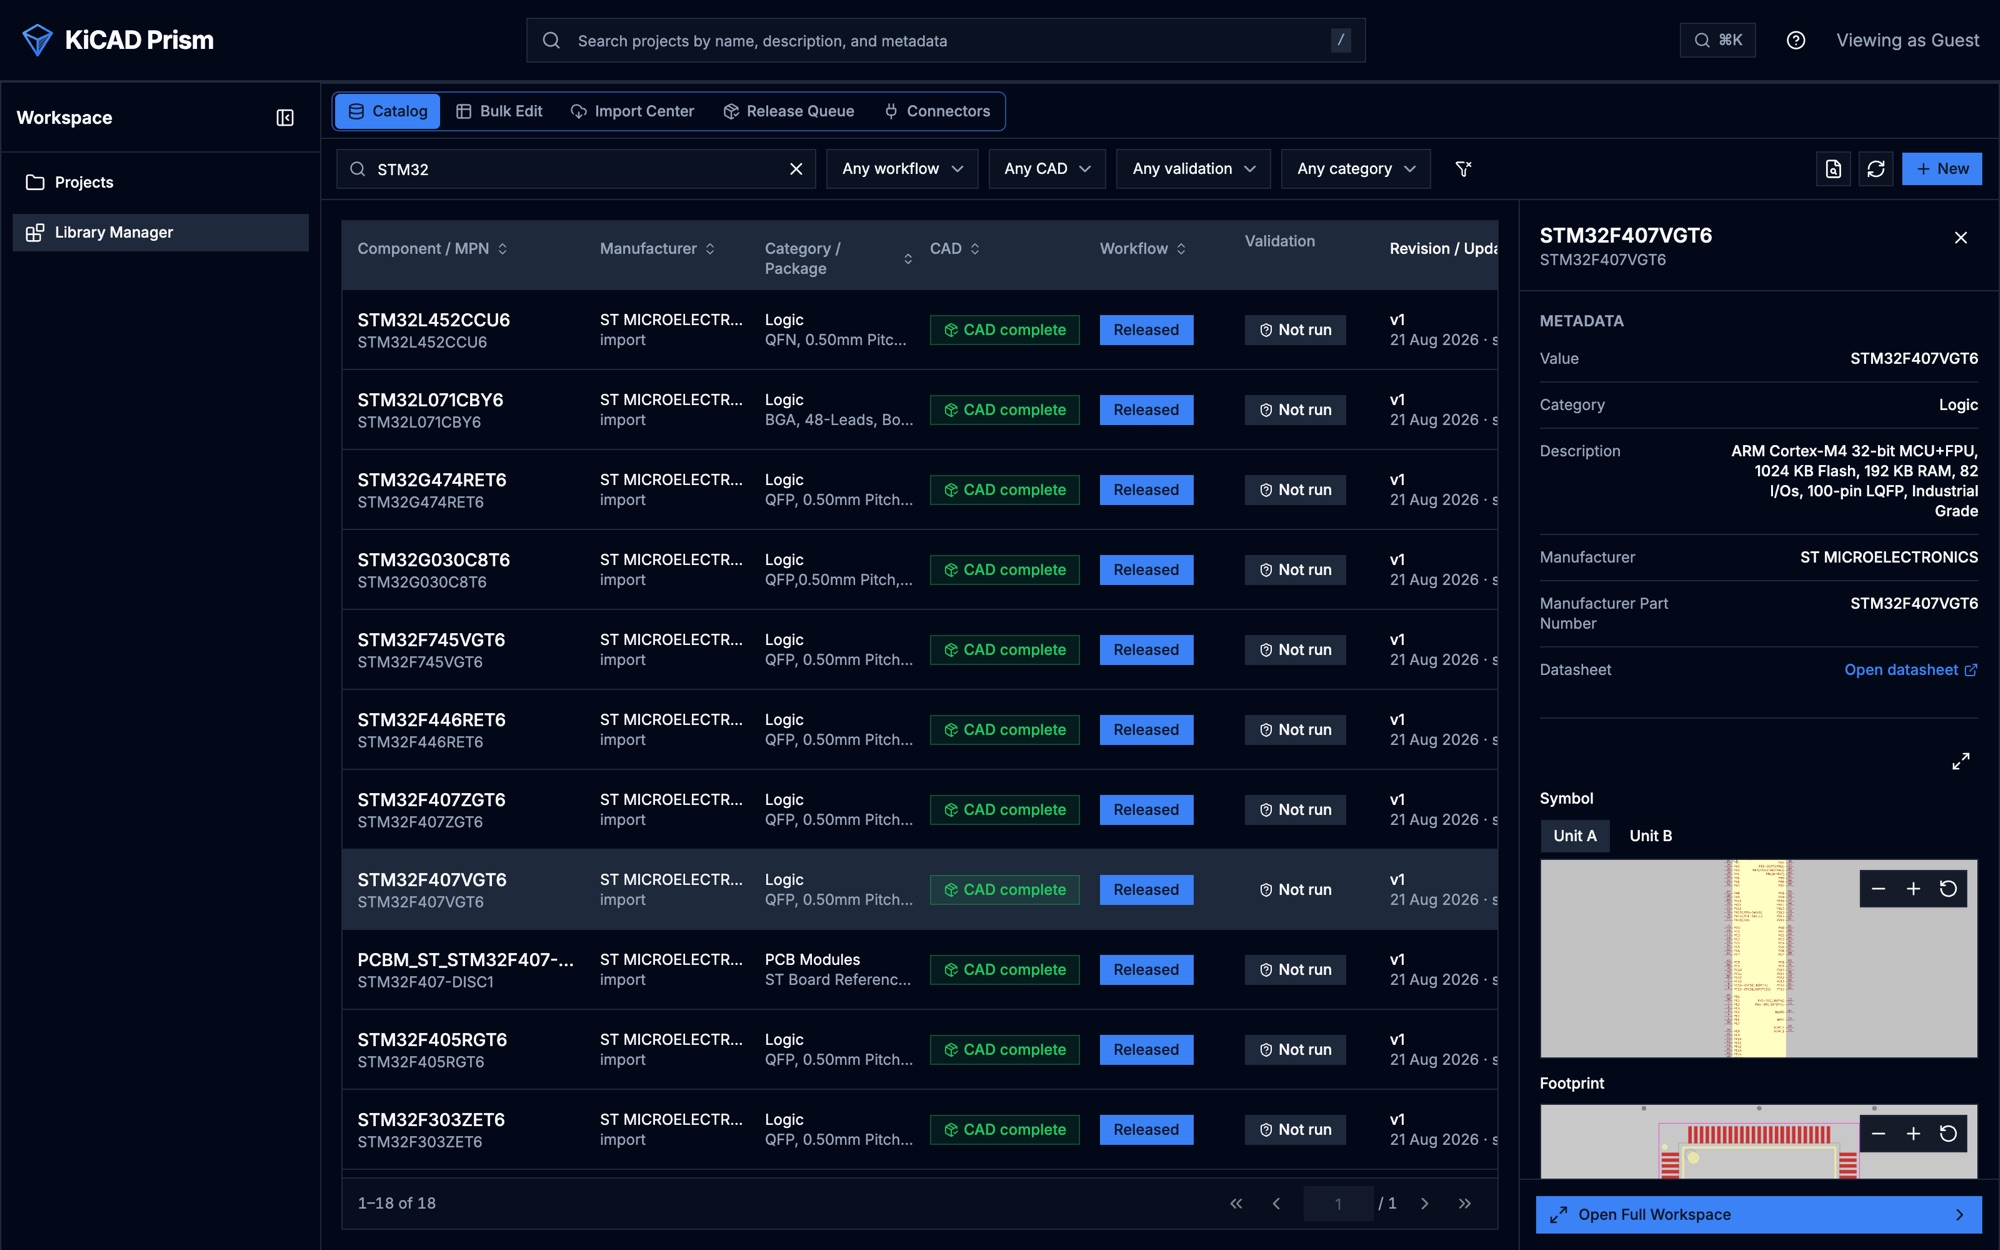
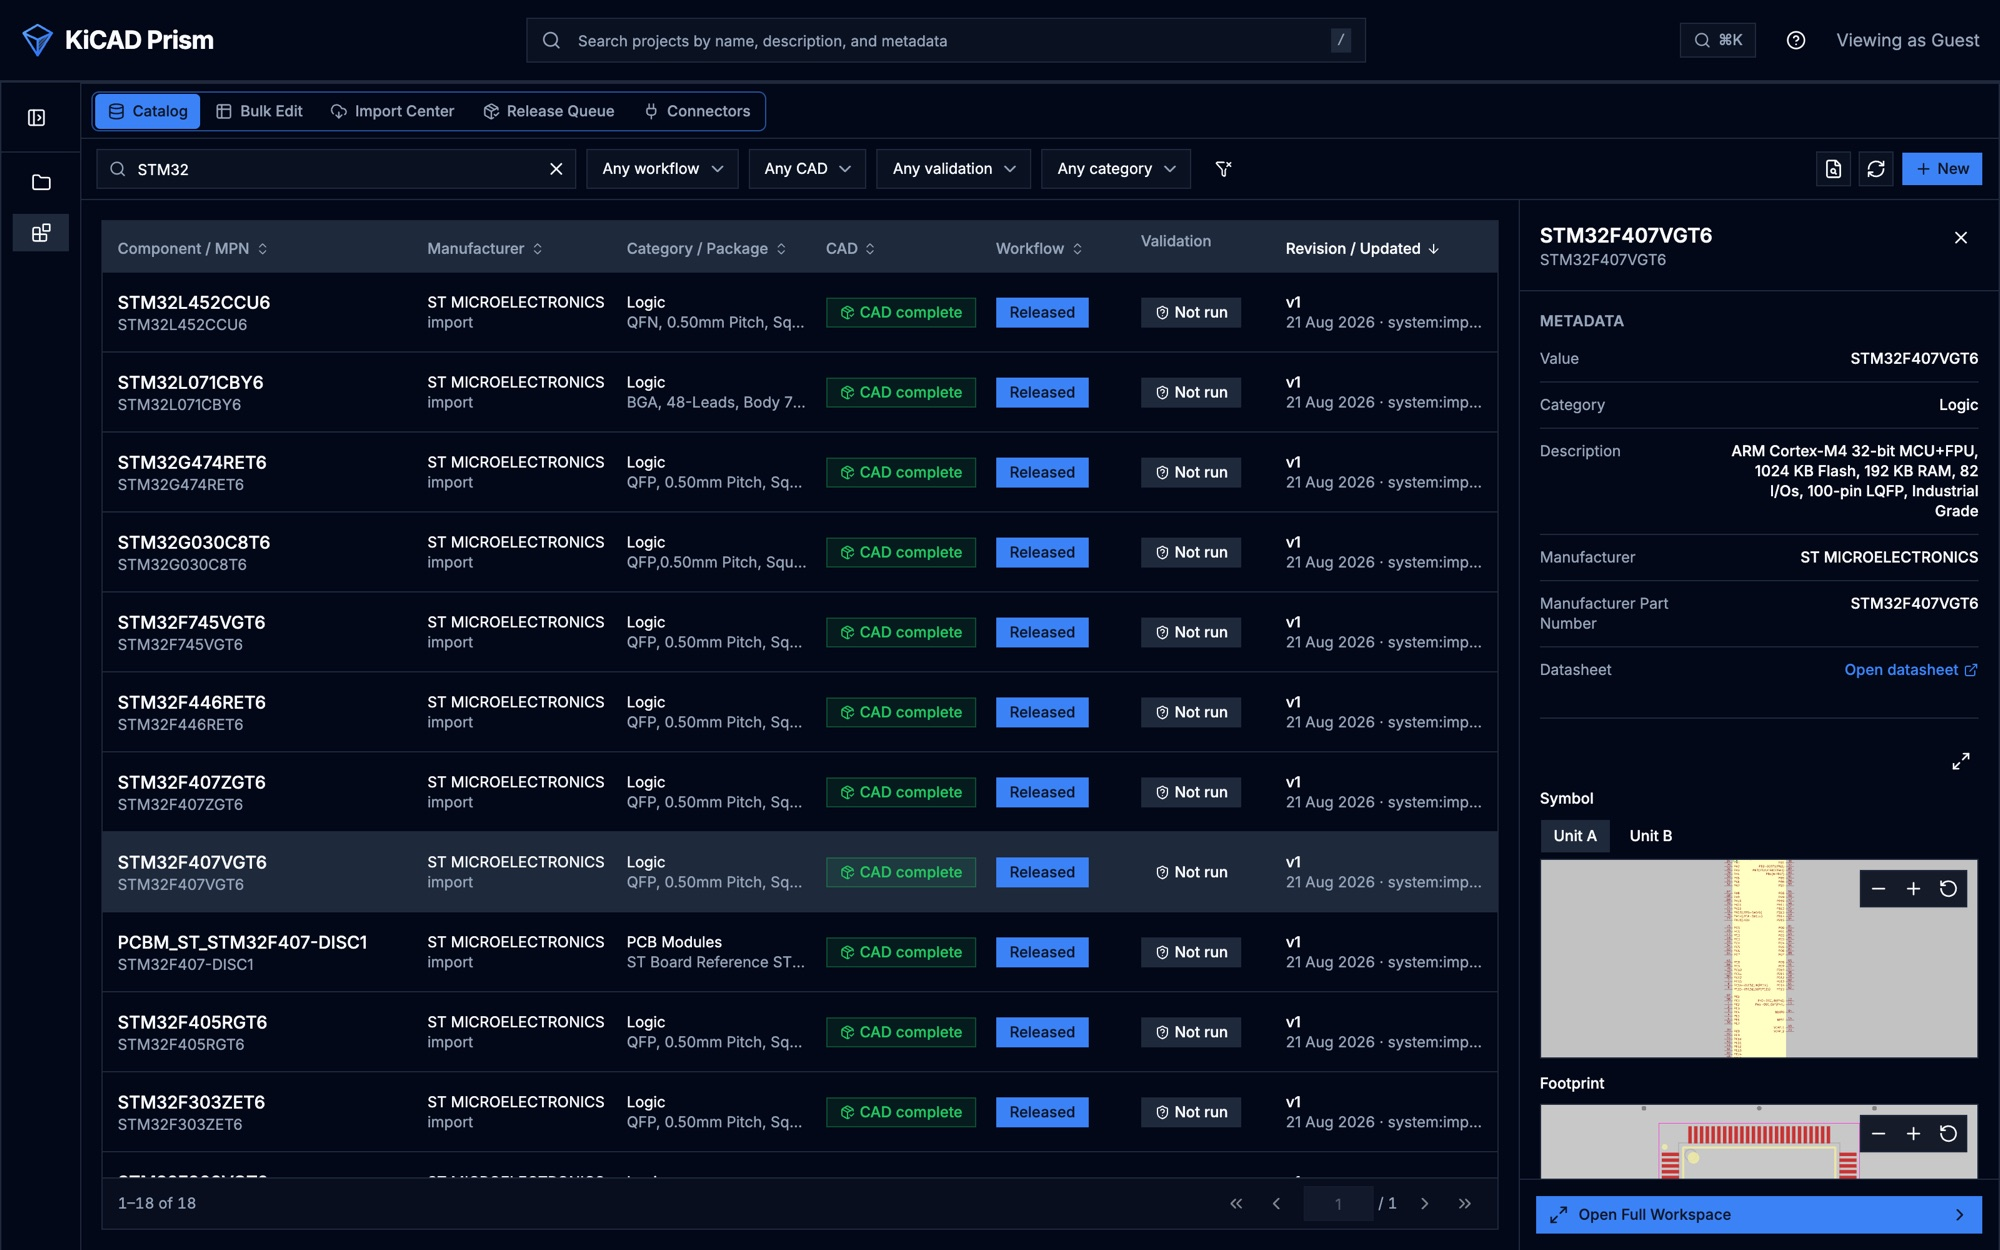
docs(readme): insets, net highlighting, comments, KiCad panel, credits and badges
Rename the first overview section to "Browse and review any revision"
and add chained insets, net highlighting in PCB and 3D, 3D net
isolation and review comments to it; rename "Review changes" to
"Compare revisions". Retake the Release Studio and Library Manager
screenshots with side panels collapsed, add the Remote Symbol Provider
panel in KiCad, credit each showcased design's authors, source and
license explicitly, and add release, release-date and license badges.

diff --git a/README.md b/README.md
@@ -1,5 +1,9 @@
 # KiCAD Prism
 
+[![Latest release](https://img.shields.io/github/v/release/krishna-swaroop/KiCAD-Prism?include_prereleases&sort=semver&label=release)](https://github.com/krishna-swaroop/KiCAD-Prism/releases/latest)
+[![Release date](https://img.shields.io/github/release-date-pre/krishna-swaroop/KiCAD-Prism?label=released)](https://github.com/krishna-swaroop/KiCAD-Prism/releases)
+[![License](https://img.shields.io/github/license/krishna-swaroop/KiCAD-Prism)](LICENSE)
+
 KiCAD Prism is an open-source, self-hosted review, release and
 component-governance platform for teams that design in KiCad and keep their
 projects in Git.
@@ -12,9 +16,13 @@ hardware, with no proprietary ECAD cloud.
 
 ![Project workspace](assets/readme/workspace.jpg)
 
+*The designs in these screenshots are third-party hardware projects, used to
+show Prism working on real boards. They are not made by Prism. See
+[Designs shown in the screenshots](#designs-shown-in-the-screenshots).*
+
 ## What Prism does
 
-### Browse any revision
+### Browse and review any revision
 
 Import projects from SSH or HTTPS Git remotes, monorepos included. Every
 revision opens in schematic, PCB, 3D, BOM and stackup views, with cross-probing
@@ -27,13 +35,30 @@ waiting.
 | --- | --- | --- |
 | ![Schematic viewer](assets/readme/schematic.jpg) | ![PCB viewer](assets/readme/pcb.jpg) | ![3D view](assets/readme/3d.jpg) |
 
-### Review changes
+Insets open a live view of the other document from any pin or pad, and chain
+from there: below, a PCB inset of U1's CC1 pin leads to a schematic inset of C7.
+
+![Chained schematic and PCB insets](assets/readme/insets.jpg)
+
+Select a net to highlight it across the schematic, PCB and 3D views, with its
+routed length, layers, tracks and vias. In 3D, isolate a net to see only its
+copper: tracks, zones, pads and vias.
+
+| Net highlight (PCB) | Net highlight (3D) | Net isolated (3D) |
+| --- | --- | --- |
+| ![CONTROL_VBUS highlighted on the PCB](assets/readme/net-highlight-2d.jpg) | ![+3V3 highlighted in 3D](assets/readme/net-highlight-3d.jpg) | ![+3V3 isolated in 3D](assets/readme/net-isolate-3d.jpg) |
+
+Comment on any sheet, part or area. Comments are rich text with pasted snips
+and attachments, anchored to the revision they were written on, and can be
+published to GitHub or GitLab issues.
+
+![Review comments on a schematic](assets/readme/commenting.jpg)
+
+### Compare revisions
 
 Compare any two revisions. Design Comparison lists what changed in the
 schematic, PCB, BOM, stackup and fabrication outputs, highlights it on the
-sheet, and keeps the review discussion next to it. Comments are rich text with
-pasted snips and attachments, anchored to the revision they were written on,
-and can be published to GitHub or GitLab issues.
+sheet, and keeps the review discussion next to it.
 
 ![Design comparison](assets/readme/design-comparison.jpg)
 
@@ -58,6 +83,11 @@ its 3D models embedded, or through a generated KiCad database library.
 
 ![Library Manager catalog](assets/readme/library-manager.jpg)
 
+In KiCad, the Remote Symbol Provider panel shows a released part's details and
+symbol and footprint previews, and places it.
+
+<img src="assets/readme/remote-symbol-panel.jpg" alt="Remote Symbol Provider panel in KiCad" width="420">
+
 ### Document a design
 
 Generated documents are built from the same design bundle. The connector
@@ -78,11 +108,26 @@ The prototypes are run by hand and are not part of the product yet.
 - OIDC single sign-on, optional password login, workspace roles, OAuth2 for the
   KiCad panel and scoped service clients for automation.
 
-The screenshots show open-source hardware: Great Scott Gadgets'
-[Cynthion](https://github.com/greatscottgadgets/cynthion-hardware), CERN's
-[wren-hw](https://gitlab.cern.ch/be-cem-edl/chronos/wren/wren-hw), the
-[OpenSwitch](https://gitlab.com/qfreiman) boards and the
-[USB-PD-Trigger-Board](https://github.com/krishna-swaroop/USB-PD-Trigger-Board).
+## Designs shown in the screenshots
+
+The screenshots show publicly available KiCad projects by other designers,
+imported into Prism the way a team would import its own. Their schematics,
+layouts, 3D models, documentation and design decisions are the work of their
+authors. They were not designed, generated or modified by Prism or its
+contributors, and they appear here only to show what Prism does with a real
+design. All rights stay with the authors under the projects' own terms.
+
+| Project | Author | Source | License |
+| --- | --- | --- | --- |
+| Cynthion | Great Scott Gadgets | [greatscottgadgets/cynthion-hardware](https://github.com/greatscottgadgets/cynthion-hardware) | CERN-OHL-P v2 |
+| WREN (vme-wren, vme-wren-fp-single, EDA-04903, EDA-04949) | CERN, BE-CEM | [be-cem-edl/chronos/wren/wren-hw](https://gitlab.cern.ch/be-cem-edl/chronos/wren/wren-hw) | CERN-OHL-W v2 or later and CC BY-SA 4.0, as stated on the schematic sheets |
+| OpenSwitch 10x10G carrier and LAN969x | Quentin Freimanis | [qfreiman/openswitch-10x10g-carrier](https://gitlab.com/qfreiman/openswitch-10x10g-carrier), [qfreiman/openswitch-lan969x](https://gitlab.com/qfreiman/openswitch-lan969x) | No license is stated in the repositories; see them for the author's terms |
+| USB-PD-Trigger-Board | Krishna Swaroop (Prism maintainer) | [krishna-swaroop/USB-PD-Trigger-Board](https://github.com/krishna-swaroop/USB-PD-Trigger-Board) | MIT |
+
+The component catalog in the Library Manager screenshot is CERN's public
+KiCad database library. If you are an author of one of these designs and would
+like a screenshot changed, credited differently or removed, please
+[open an issue](https://github.com/krishna-swaroop/KiCAD-Prism/issues).
 
 ## Runtime
 
